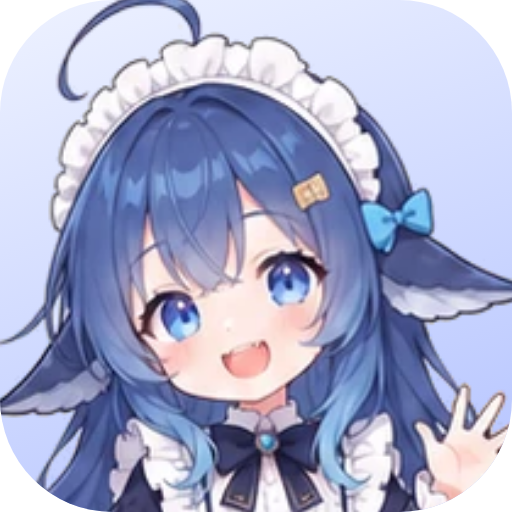
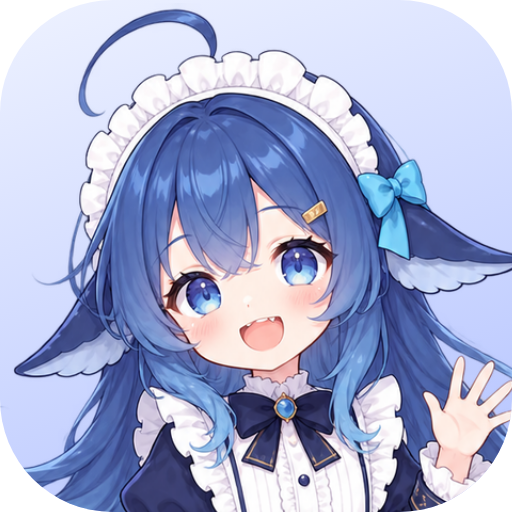
HD art: nine transparent ChatGPT images, the 无语 state, an 特大 size
The user sent a ZIP of 1024x1536 transparent PNGs, one per state,
including the side-eye (无语) state that was missing before.

- art/raw/hd/: the originals, named by state; the low-res grid sheet is gone.
- art/cut/ and art/png/: 908x1337 sprites, scaled to one body height
  (1300 px) and anchored at the feet, with 服务器繁忙 on the sign and
  嗯，用户说…… in the thought bubble re-placed for the new drawings.
- states.mjs: sideeye state and lines; ART_CANVAS, OVERLAYS and ICONS
  measured on the new art.
- The character sheet shows all nine states and a row of the memes.
- App: 3 quick clicks give the side-eye (5 still mean 服务器繁忙), she
  sometimes side-eyes on her own, and there is a 特大 (480 px) size.

Claude-Session: https://claude.ai/code/session_01DgrU4kEEeWuVrnqdUqSVi7

diff --git a/app/pet.js b/app/pet.js
@@ -11,8 +11,9 @@ const badgeText = badge.querySelector('span');
 
 const NAP_AFTER = 120000; // ms without attention before she naps
 const NAP_AFTER_OFF_PEAK = 45000; // sooner during DeepSeek's 00:30–08:30 off-peak discount
-const BUSY_CLICKS = 5; // this many clicks within BUSY_WINDOW and she is "server busy"
-const BUSY_WINDOW = 2500;
+const POKE_WINDOW = 2500; // clicks this close together count as poking her
+const SIDEEYE_CLICKS = 3; // poked this many times she gives you a look
+const BUSY_CLICKS = 5; // ...and this many times she is "server busy"
 
 let states = {};
 let moreLines = {};
@@ -128,7 +129,8 @@ function ambient() {
   if (roll < 0.4) deepThink();
   else if (roll < 0.6) show('hello');
   else if (roll < 0.75) show('eat');
-  else if (roll < 0.85) show('busy', { ms: 3200 });
+  else if (roll < 0.83) show('busy', { ms: 3200 });
+  else if (roll < 0.9) show('sideeye', { ms: 3200 });
   else show('idle', { ms: 3600 });
 }
 
@@ -231,11 +233,13 @@ window.addEventListener('mouseup', async (e) => {
 
 function click() {
   const now = Date.now();
-  clicks = clicks.filter((t) => now - t < BUSY_WINDOW);
+  clicks = clicks.filter((t) => now - t < POKE_WINDOW);
   clicks.push(now);
   if (clicks.length >= BUSY_CLICKS) {
     clicks = [];
     show('busy', { line: states.busy.line, ms: 4200 });
+  } else if (clicks.length >= SIDEEYE_CLICKS) {
+    if (current !== 'sideeye') show('sideeye', { ms: 3200 });
   } else if (current !== 'busy') {
     show('happy', { ms: 3200 });
   }

diff --git a/app/main.js b/app/main.js
@@ -13,9 +13,14 @@ import { STATES, MORE_LINES } from '../art/states.mjs';
 const here = path.dirname(fileURLToPath(import.meta.url));
 const spriteDir = path.join(here, '..', 'art', 'png');
 
-// Pet height in logical pixels. On a 4K screen at 150–200% scaling the
-// medium size uses about as many physical pixels as the sprites have.
-const SIZES = { small: { label: '小', height: 240 }, medium: { label: '中', height: 300 }, large: { label: '大', height: 380 } };
+// Pet height in logical pixels. The sprites are about 1300 px tall, enough
+// for the largest size on a 4K screen at 200% scaling.
+const SIZES = {
+  small: { label: '小', height: 240 },
+  medium: { label: '中', height: 300 },
+  large: { label: '大', height: 380 },
+  xlarge: { label: '特大', height: 480 },
+};
 const BUBBLE_ROOM = 72; // space above the sprite for the speech bubble
 const MIN_WIDTH = 300;
 

diff --git a/README.md b/README.md
@@ -29,16 +29,17 @@ npm start
 | --- | --- |
 | 按住拖动 | 把她拎到任何地方，位置会记住 |
 | 单击 | 开心：「全部开源，MIT 协议，随便用～」 |
+| 连点 3 下 | 无语：「……这题问过 128K 遍了。」 |
 | 连点 5 下 | 服务器繁忙，请稍后再试。 |
 | 双击 | 吃 Token |
 | 右键 | 菜单：说点什么、喂 Token、深度思考、切换状态、大小、总在最前、开机启动、隐藏、退出 |
 | 托盘图标 | 显示 / 隐藏、退出 |
 
-放着不管时，她会自己找事做：深度思考（一边打字一边计时「已深度思考（用时 N 秒）」，然后顿悟）、打招呼、吃 Token。两分钟没人理她就睡着；北京时间 00:30–08:30 是 DeepSeek 的错峰优惠时段，这时她更容易犯困。鼠标移到她身上就会醒。
+放着不管时，她会自己找事做：深度思考（一边打字一边计时「已深度思考（用时 N 秒）」，然后顿悟）、打招呼、吃 Token、偶尔翻个白眼。两分钟没人理她就睡着；北京时间 00:30–08:30 是 DeepSeek 的错峰优惠时段，这时她更容易犯困。鼠标移到她身上就会醒。
 
 只有她身上的像素能点到，旁边的透明区域不挡鼠标，照常点下面的桌面。
 
-大小有小、中、大三档，默认是「中」。状态图是 644 像素高，在 4K 屏 150%–200% 缩放下，「中」号正好清晰，「大」号会稍微发虚。
+大小有小、中、大、特大四档，默认是「中」。状态图约 1300 像素高，4K 屏开 200% 缩放时，连「特大」都是清晰的。
 
 ## 目录
 
